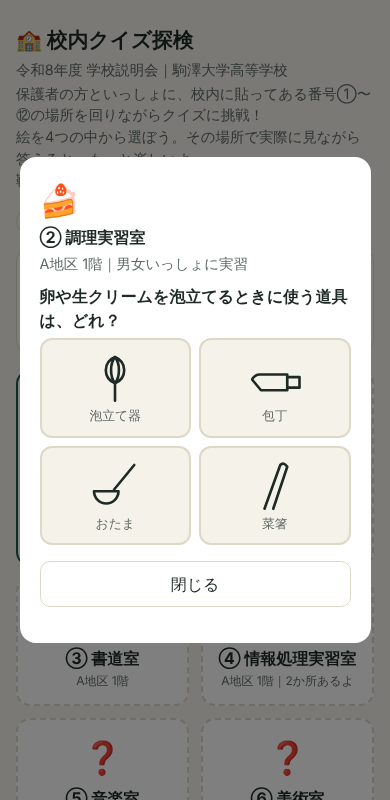
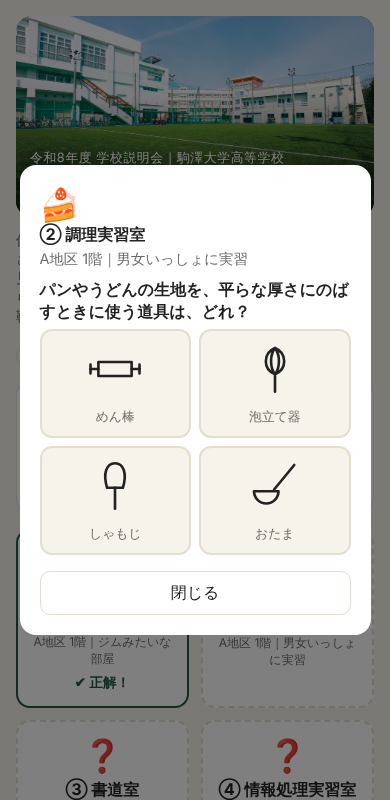
利用人数の集計（GoatCounter）の仕組みを追加。コードが空の間は何も送らない
Claude-Session: https://claude.ai/code/session_012aKxLHoJusGDhZyTx7W7g2

diff --git a/docs/index.html b/docs/index.html
@@ -112,6 +112,7 @@
   .bar { position: relative; }
   .bar .mark { position: absolute; top: 0; bottom: 0; width: 3px; background: var(--ink); opacity: .55; }
   .stage { margin-top: 8px; font-weight: 700; color: var(--main); }
+  .privacy { margin: 18px 0 4px; font-size: .75rem; color: var(--sub); text-align: center; }
 </style>
 </head>
 <body>
@@ -149,6 +150,7 @@
   <section class="grid" id="grid"></section>
 
   <div class="reset"><button id="reset">最初からやり直す</button></div>
+  <p class="privacy" id="privacy" hidden>このページは、ご利用の人数を知るため、個人を特定しない形でアクセス数を記録しています。</p>
 </main>
 
 <dialog id="dlg">
@@ -293,6 +295,30 @@ let done = load();
 let current = null;
 
 const $ = id => document.getElementById(id);
+
+// ===== 利用人数の集計（GoatCounter）=====
+// 個人は特定せず、「開いた端末の数」と、クイズの進み具合（1問目の正解・ステージクリア・コンプリート）だけを数える。
+// GC_CODE に、GoatCounter で決めたサイトの名前を入れると始まる（空のままなら何も送らない）。
+const GC_CODE = "";
+const GC_HOSTS = ["iyokoyama-13641.github.io"];   // 公開ページでだけ数える（確認用の画面は数えない）
+const gcOn = !!GC_CODE && GC_HOSTS.includes(location.hostname) && !/staff/.test(location.search + location.hash);
+if (gcOn) {
+  const sc = document.createElement("script");
+  sc.async = true; sc.dataset.goatcounter = "https://" + GC_CODE + ".goatcounter.com/count"; sc.src = "https://gc.zgo.at/count.js";
+  document.head.appendChild(sc);
+  $("privacy").hidden = false;
+}
+// 同じ端末からは、各イベントを1回だけ送る
+function track(name, title) {
+  if (!gcOn) return;
+  const key = "stamp-rally-gc-" + name;
+  if (lsGet(key)) return;
+  let tries = 0;
+  (function go() {
+    if (window.goatcounter && window.goatcounter.count) { lsSet(key, "1"); window.goatcounter.count({ path: "event/" + name, title, event: true }); }
+    else if (tries++ < 10) setTimeout(go, 1000);
+  })();
+}
 $("all").textContent = SPOTS.length; $("mark").style.left = (GOAL / SPOTS.length * 100) + "%";
 
 function render() {
@@ -328,6 +354,9 @@ function onRight(s) {
   done.push(s.id); save(done); render(); setMode(true, true);
   if (done.length >= SPOTS.length) $("hit").textContent = "👑 コンプリート！";
   else if (done.length === GOAL) $("hit").textContent = "🏅 ステージクリア！";
+  track("first-correct", "1問目に正解");
+  if (done.length >= GOAL) track("stage-clear", "ステージクリア（8問）");
+  if (done.length >= SPOTS.length) track("complete", "コンプリート（13問）");
   celebrate(done.length);
 }
 function onWrong(b) { b.classList.add("wrong", "shake"); miss(); $("err").textContent = "ざんねん！ もういちど考えてみよう。"; }

diff --git a/stamp-rally/README.md b/stamp-rally/README.md
@@ -18,3 +18,17 @@
 - このリポジトリは **公開(public)** です。訪問カードなど、個人情報を含むファイルは置かないでください。
 - 先生用の答え `poster-answers.md` は、公開されないよう `.gitignore` で管理から外してあります。
 - アプリの問題と答えは、ページのソースを見れば分かる作りです（景品なしの運用を前提にしています）。
+
+## 利用人数の集計（GoatCounter）
+当日に「何人が遊んだか」を数えるため、無料のアクセス解析 [GoatCounter](https://www.goatcounter.com/) に対応しています。個人は特定せず、端末ごとに数えます。
+
+1. https://www.goatcounter.com/ でアカウントを作り、サイトの名前（コード、例 `komadai-hs`）を決める
+2. `docs/index.html` の `const GC_CODE = "";` に、そのコードを入れる（空のままなら何も送りません）
+3. 管理画面（`https://コード.goatcounter.com`）で、次が見られます
+   - ページの表示数・端末数 …… QRコードから開いた人数
+   - `event/first-correct` …… 1問以上正解した端末の数
+   - `event/stage-clear` …… ステージクリア（8問）の端末の数
+   - `event/complete` …… コンプリート（13問）の端末の数
+4. 公開ページでだけ数えます。先生用の確認（`?staff`）と、手元のファイルは数えません。
+
+※ 数えているのは人ではなく端末です。親子で1台のスマホを使えば1つ、同じ人が2台で開けば2つになります。
